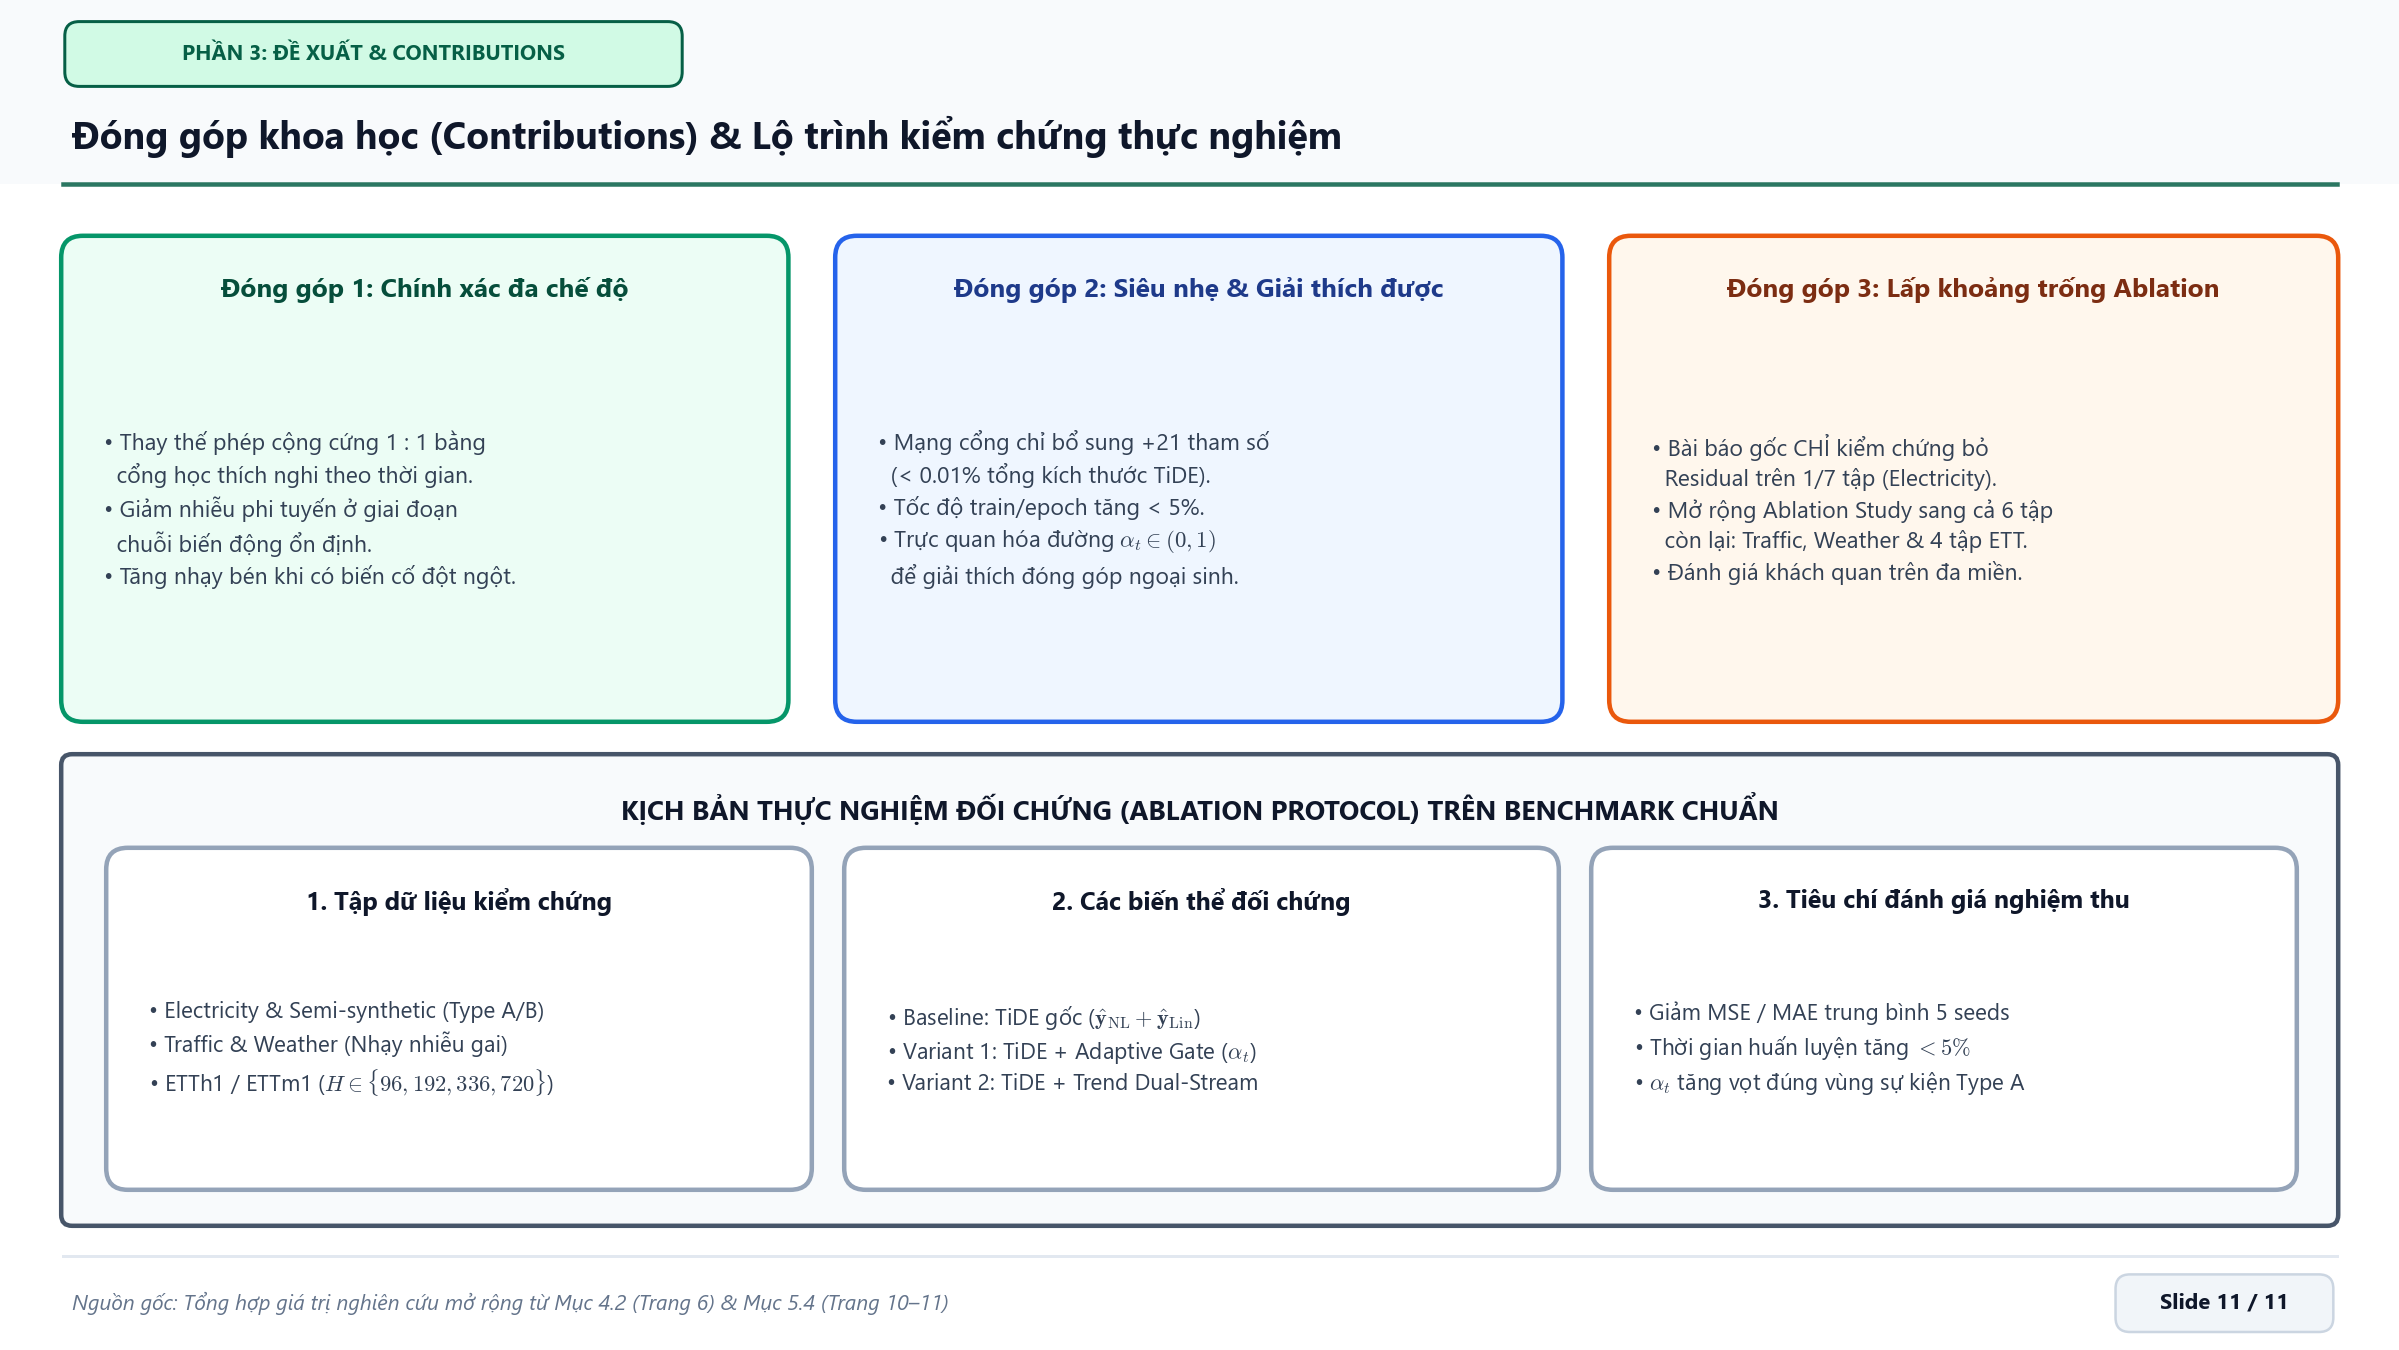
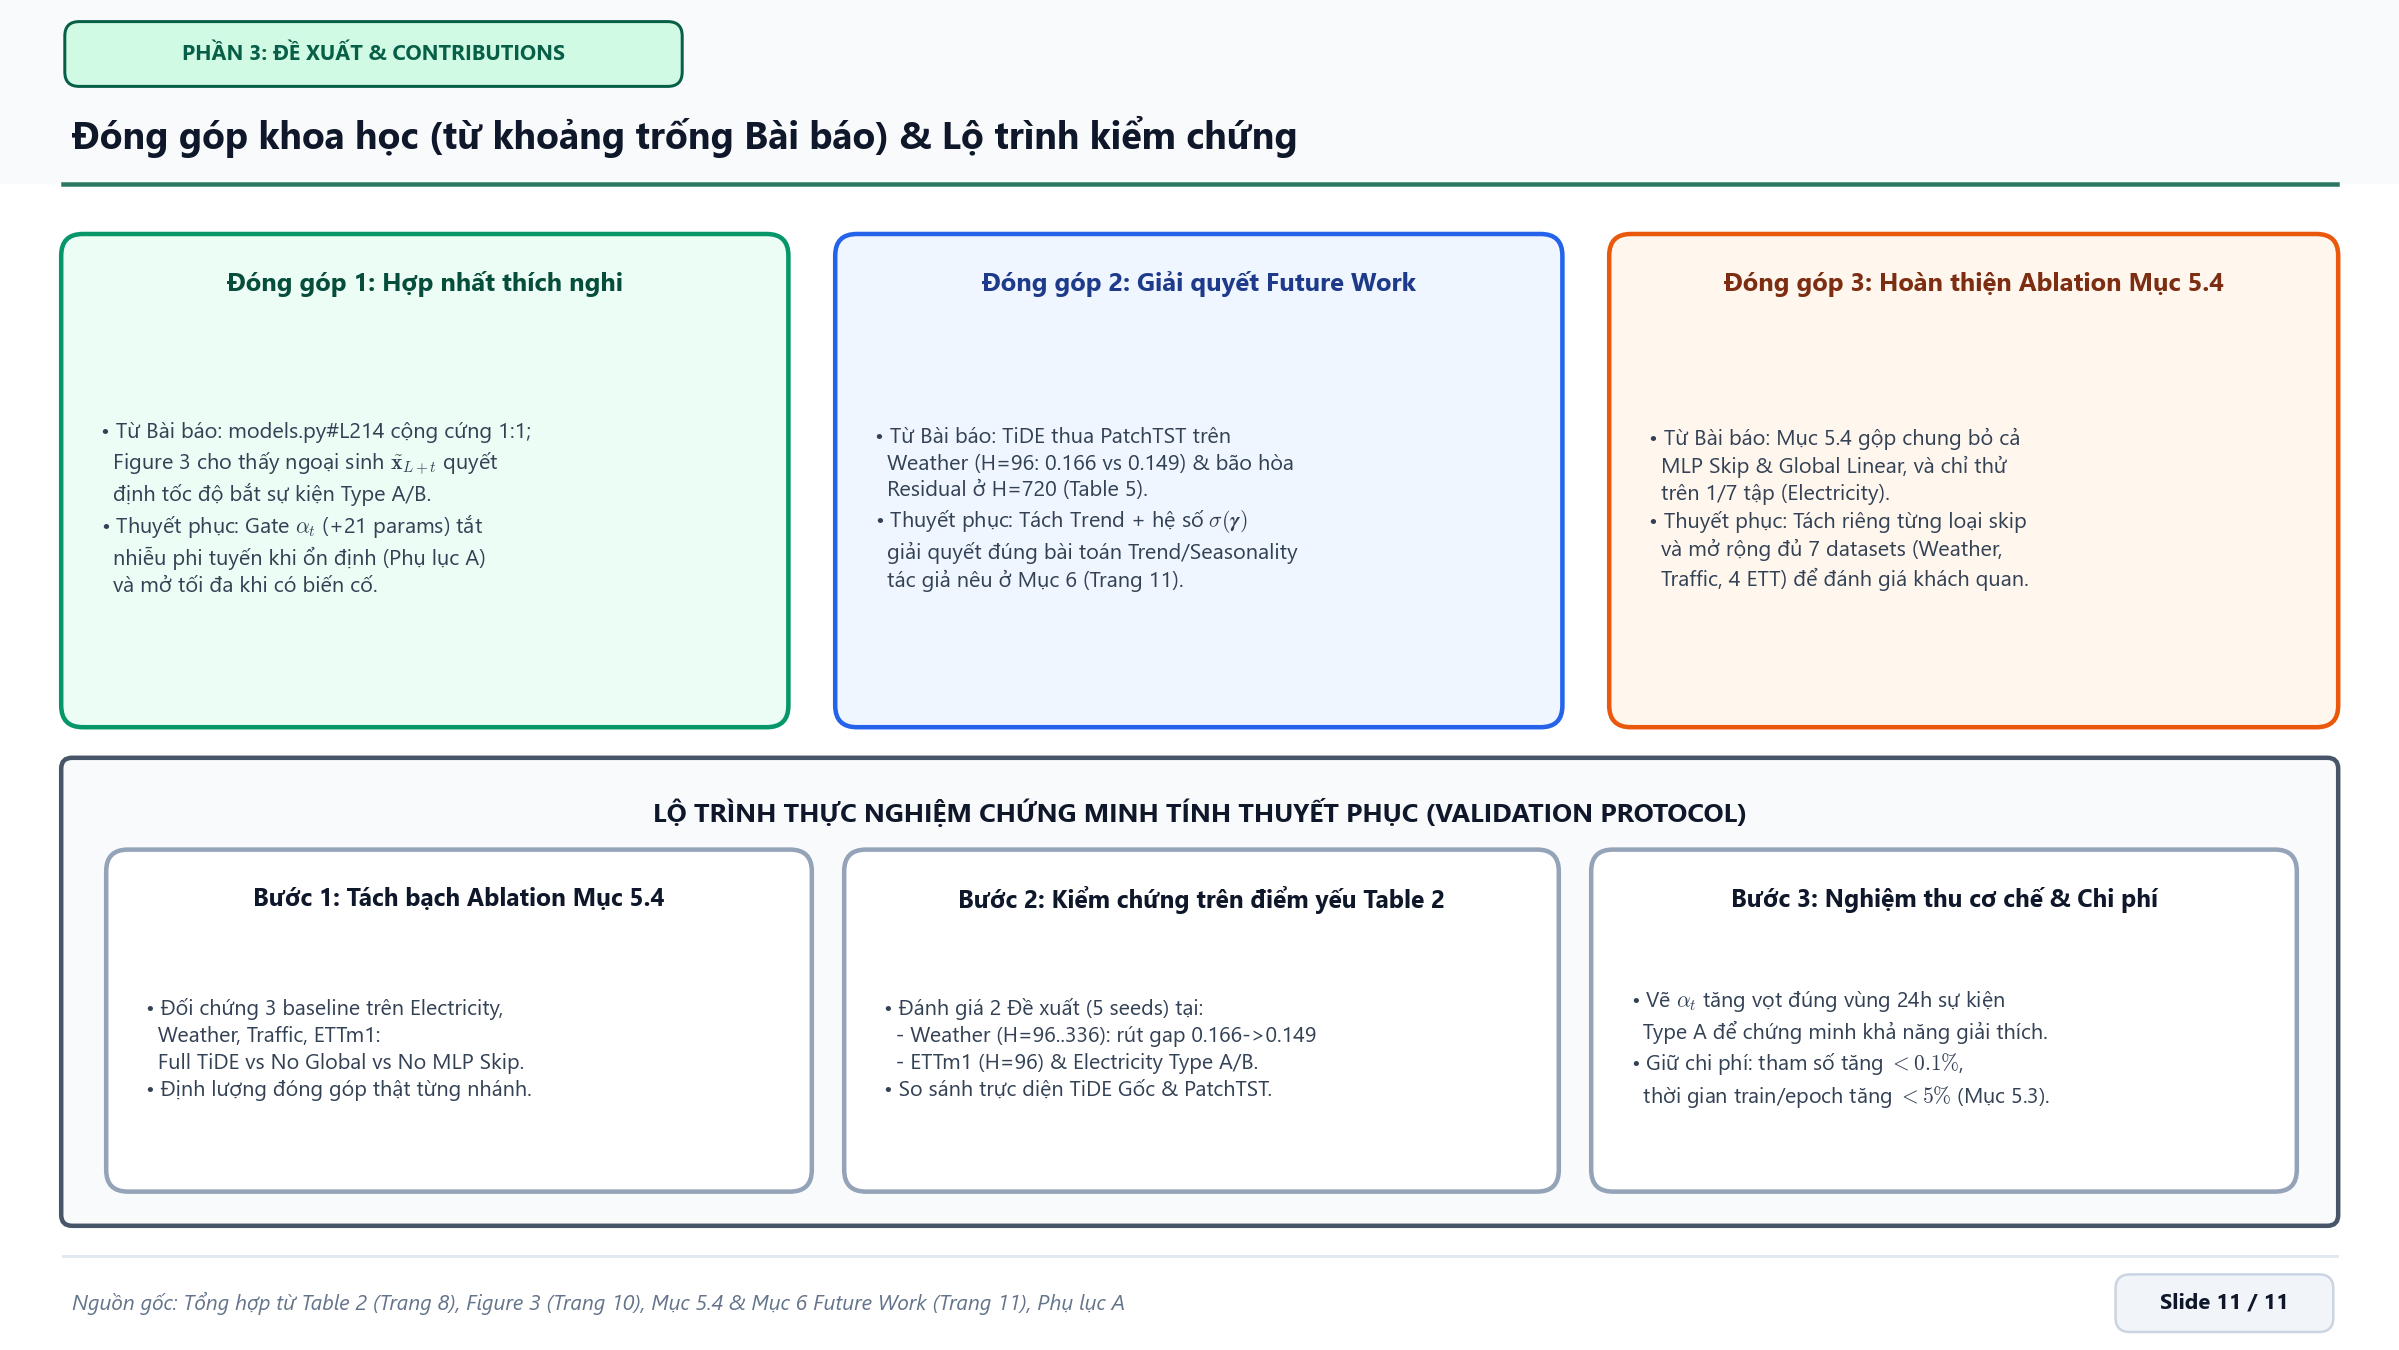
docs(slide): ground Slide 10 and Slide 11 proposals and contributions directly in TiDE paper gaps and empirical evidence

diff --git a/tasks-Hieu/presentation/slide/slide_03_phan_3_de_xuat_cai_tien.md b/tasks-Hieu/presentation/slide/slide_03_phan_3_de_xuat_cai_tien.md
@@ -77,41 +77,48 @@ class AdaptiveGatedTiDEHead(nn.Module):
         return alpha * y_hat_nl + (1.0 - alpha) * y_hat_lin
 ```
 
-### 3. Giả thuyết 2: Tách Xu Hướng Kiểu DLinear Cho Nhánh Tuyến Tính (Trend-Aware Dual-Stream)
+### 3. Giả thuyết 2: Phân rã Xu hướng & Điều tiết Horizon cho Global Residual (Xuất phát từ Bài báo)
 
-Dùng bộ lọc `Moving Average` ($k = 25$) tách chuỗi quá khứ $\mathbf{y}_{1:L}^{(i)}$ thành thành phần mượt $\mathbf{y}_{\mathrm{trend}}^{(i)}$ và phần dư $\mathbf{y}_{\mathrm{rem}}^{(i)}$ trước khi chiếu qua hai lớp Linear độc lập, kết hợp trọng số học được theo horizon $\boldsymbol{\gamma} \in \mathbb{R}^{1 \times H}$:
+**3.1. Cơ sở trực tiếp từ các điểm nghẽn & hướng mở trong Bài báo gốc:**
+* **Điểm yếu thực nghiệm tại Table 2 (Trang 8):** Trên tập `Weather` (tần suất 10 phút, nhiễu cao) ở $H=96$, TiDE đạt MSE `0.166` (thua PatchTST `0.149` tới `10.2%`); trên `ETTm1` ở $H=96$, TiDE (`0.306`) cũng thua cả DLinear (`0.299`) và PatchTST (`0.293`).
+* **Bão hòa ở tầm xa tại Table 5 (Trang 11):** Trên `Electricity` ở $H=720$, sai số của TiDE và `TiDE (no res.)` tiệm cận nhau (`0.196` vs `0.196`), cho thấy trọng số cộng cố định `1:1` suy giảm hiệu lực ở bước xa.
+* **Hướng mở từ chính tác giả (Mục 6 Conclusion & Future Work, Trang 11):** Nhóm tác giả đề xuất cần phân tích sâu hơn hiệu quả của kiến trúc MLP so với Transformer ứng với **từng mức độ xu hướng (*trend*) và chu kỳ (*seasonality*)**; đồng thời tại Mục 4.2, nhánh Global Residual mới chiếu thẳng chuỗi thô $\mathbf{y}_{1:L}^{(i)}$ thay vì tách thành phần mượt như DLinear.
+
+**3.2. Phương trình cải tiến & Cơ sở thuyết phục:**
 
 $$
 \hat{\mathbf{y}}_{\mathrm{final}}^{(i)} = \big(\mathbf{W}_{\mathrm{trend}} \mathbf{y}_{\mathrm{trend}}^{(i)} + \mathbf{W}_{\mathrm{rem}} \mathbf{y}_{\mathrm{rem}}^{(i)} + \mathbf{b}\big) + \sigma(\boldsymbol{\gamma}) \odot \hat{\mathbf{y}}_{\mathrm{NL}}^{(i)}
 $$
 
-### 4. Đóng góp khoa học (Contributions) & Thiết kế kiểm chứng thực nghiệm
+* **Giữ nguyên tối ưu Phụ lục A:** Tách nền mượt $\mathbf{y}_{\mathrm{trend}}^{(i)}$ giúp nhánh Linear phát huy đúng chứng minh tối ưu cho hệ động lực tuyến tính mà không bị gai nhiễu tần số cao (`Weather`, `ETTm1`) kéo lệch.
+* **Xử lý suy giảm ở $H=720$:** Vector học $\sigma(\boldsymbol{\gamma}) \in \mathbb{R}^H$ tự động tiết giảm độ trôi phi tuyến của Temporal Decoder tại các bước tương lai xa.
+* **Bảo toàn $\mathrm{DLinear} \subset \mathrm{TiDE}$ & tốc độ $O(L+H)$:** Chi phí tham số tăng $< 0.1\%$, giữ nguyên tốc độ nhanh hơn Transformer $5\text{–}10\times$ (Mục 5.3).
+
+### 4. Đóng góp khoa học (Xuất phát từ khoảng trống Bài báo) & Lộ trình kiểm chứng
 
 **3 Đóng góp kỳ vọng chính (Contributions):**
 
-1. **Cải thiện độ chính xác trên chuỗi đa chế độ (*Regime-Switching*):** Khắc phục phép cộng cứng `1:1`, giảm nhiễu phi tuyến ở giai đoạn ổn định và khuếch đại nhạy bén khi có biến cố ngoại sinh.
-2. **Siêu nhẹ & Có khả năng giải thích (*Lightweight & Interpretable*):** Mạng cổng chỉ bổ sung **$21$ tham số** (`< 0.01%` mô hình) nhưng cho phép vẽ đồ thị biến thiên $\alpha_t \in (0, 1)$ để giải thích trực quan lúc nào mô hình dựa vào lịch sử tuyến tính, lúc nào dựa vào sự kiện ngoại sinh.
-3. **Lấp khoảng trống Ablation của bài báo gốc:** Mở rộng kiểm chứng sang cả **6 tập dữ liệu còn lại** (`Traffic`, `Weather`, `ETTh1/2`, `ETTm1/2`) thay vì chỉ dừng lại ở `1/7` tập (`Electricity`) như trong Figure 5 của bài báo gốc.
+1. **Hợp nhất thích nghi điều khiển từ ngoại sinh:** Khắc phục phép cộng cứng `1:1` (`models.py#L214`) bằng cổng $\alpha_t$ (`+21 params`). Tận dụng đúng tín hiệu ngoại sinh quyết định tốc độ bắt sự kiện Type A/B (**Figure 3, Trang 10**) và tối ưu hóa chế độ ổn định tuyến tính (**Phụ lục A**).
+2. **Giải quyết trực tiếp bài toán Future Work tại Mục 6 (Trang 11):** Nâng cấp Global Residual bằng phân rã Trend/Remainder + trọng số $\sigma(\boldsymbol{\gamma})$ theo horizon để xử lý trực diện các benchmark TiDE thua PatchTST/DLinear (**Table 2 Trang 8**: `Weather`, `ETTm1`) và vùng bão hòa $H=720$ (**Table 5**).
+3. **Hoàn thiện mảnh ghép Ablation Study còn thiếu tại Mục 5.4 (Trang 11):** Tác giả gộp chung bỏ cả `MLP ResidualBlock Skip` lẫn `Global Linear Residual` trong biến thể `TiDE (no res.)` và chỉ thử trên `1/7` tập (`Electricity`). Ta **tách riêng 2 thành phần skip** và mở rộng đánh giá sang đủ **7 datasets** (`Weather`, `Traffic`, `4 ETT`, `Electricity`).
 
-| Hạng mục | Thiết lập kiểm chứng đề xuất |
-| :--- | :--- |
-| **Datasets** | `Electricity`, `Semi-synthetic Electricity (Type A/B events)` & `ETTh1 / Traffic` (`H = 96, 192, 336, 720`). |
-| **Mô hình đối chứng** | (1) TiDE Gốc (`y_nl + y_lin`) vs (2) TiDE + `AdaptiveGatedTiDEHead` vs (3) TiDE + `Trend-Aware Dual-Stream`. |
-| **Chỉ số đo lường** | So sánh **MSE / MAE** (trung bình 5 seed), thời gian train/epoch (`< 5%` sai khác) và **trực quan hóa giá trị cổng $\alpha_t$** trong suốt chu kỳ sự kiện Type A. |
+| Bước kiểm chứng | Mục tiêu xuất phát từ Bài báo | Tiêu chí thuyết phục & Nghiệm thu |
+| :--- | :--- | :--- |
+| **Bước 1: Tách bạch Ablation Mục 5.4** | Mục 5.4 Trang 11 chưa tách `Global Linear` khỏi `MLP Skip` và thiếu `6/7` tập. | Đối chứng 3 baseline (`Full TiDE` vs `No Global Linear` vs `No MLP Skip`) trên `Electricity`, `Weather`, `Traffic`, `ETTm1`. |
+| **Bước 2: Kiểm chứng trên điểm yếu Table 2** | TiDE thua PatchTST/DLinear ở `Weather H=96..336` & `ETTm1 H=96`. | So sánh **MSE / MAE** (5 seeds) của 2 Đề xuất vs TiDE Gốc & PatchTST; kỳ vọng rút ngắn khoảng cách `0.166 -> ~0.149` trên `Weather`. |
+| **Bước 3: Nghiệm thu cơ chế & Chi phí (Mục 5.3)** | Giải thích $\alpha_t$ trên sự kiện `Type A/B` (Figure 3) và giữ tốc độ TiDE. | Đồ thị $\alpha_t$ tăng vọt đúng vùng sự kiện `24h`; tham số tăng $< 0.1\%$ và thời gian train/epoch tăng $< 5\%$. |
 
 ---
 
 ## 🎙 Kịch Bản Lời Nói Thuyết Trình (Speaker Notes)
 
-> "Cuối cùng ở Phần 3, để trả lời trực tiếp câu hỏi mở của đề tài: **Có thể cải tiến cơ chế kết hợp giữa nhánh phi tuyến và nhánh tuyến tính để nâng cao độ chính xác không?** Câu trả lời chắc chắn là **CÓ**.
+> "Cuối cùng ở Phần 3, toàn bộ đề xuất cải tiến của em **đều xuất phát trực tiếp từ những điểm nghẽn và gợi mở được chính nhóm tác giả Google Research ghi nhận trong bài báo**:
 >
-> Như đã phân tích ở Phần 2, dòng code `out += residual_out` hiện tại ép cả hai nhánh cộng với tỷ lệ cứng 1:1 ở mọi thời điểm. Em xin đề xuất 2 giả thuyết cải tiến có thể kiểm chứng ngay bằng thực nghiệm:
+> 1. **Đề xuất 1 — Adaptive Gated Fusion (Slide 09):** Xuất phát từ dòng code 214 `out += residual_out` cộng cứng `1:1`. Kết hợp chứng minh từ Phụ lục A (mô hình tuyến tính đã tối ưu khi chuỗi vận động tuyến tính) và Figure 3 (biến ngoại sinh quyết định sự kiện Type A/B), ta chỉ cần thêm 1 cổng Sigmoid `alpha_t` tốn đúng **21 tham số** để tự động hạ nhiễu phi tuyến lúc yên tĩnh và mở hết cỡ khi có sự kiện đột biến.
 >
-> 1. **Adaptive Gated Fusion (Cổng hợp nhất thích nghi theo thời gian):** Ta thêm một tầng Linear nhỏ kết hợp hàm Sigmoid để sinh ra trọng số $\alpha_t \in (0, 1)$ cho từng mốc tương lai dựa trên chính $[\mathbf{d}_t ; \tilde{\mathbf{x}}_{L+t}]$. Khi chuỗi đang biến động bình thường, $\alpha_t$ hạ xuống để ưu tiên nhánh tuyến tính chống nhiễu; còn khi phát hiện sự kiện đột biến như Type A hoặc ngày lễ, cổng tự động mở $\alpha_t \to 1$ để ưu tiên Temporal Decoder. Đặc biệt, mạng cổng này chỉ tốn thêm đúng **21 tham số**, tốc độ tính toán gần như không đổi.
+> 2. **Đề xuất 2 — Phân rã Xu hướng & Điều tiết Horizon (Slide 10):** Xuất phát từ **Table 2 (Trang 8)** khi TiDE vẫn thua PatchTST `10.2%` trên tập `Weather` (`H=96`, nhiều nhiễu 10 phút) và thua DLinear ở `ETTm1`; đồng thời ở **Table 5 (Trang 11)** khi `H=720`, Global Residual gốc bị bão hòa (`0.196` vs `0.196`). Trong **Mục 6 Future Work**, chính tác giả cũng gợi mở phải xét ảnh hưởng của *trend* và *seasonality*. Tách chuỗi quá khứ qua `MovingAvg` như tinh thần DLinear giúp nhánh tuyến tính giữ được tính tối ưu ở Phụ lục A, còn hệ số học `sigma(gamma)` giúp hãm độ trôi phi tuyến ở tầm dự báo xa.
 >
-> 2. **Trend-Aware Dual-Stream:** Tách $\mathbf{y}_{1:L}$ thành Trend và Seasonal bằng Moving Average đúng theo tinh thần DLinear trước khi đưa vào `Global Linear Skip`, tránh để nhiễu gai làm lệch đường nền tuyến tính.
->
-> Bên dưới là thiết kế thí nghiệm đối chứng (Ablation Study) kèm đồ thị theo dõi giá trị $\alpha_t$ mà nhóm hoàn toàn có thể chạy kiểm chứng ngay trên bộ dữ liệu thực tế. Cảm ơn thầy cô và các bạn đã lắng nghe!"
+> 3. **Đóng góp & Lộ trình kiểm chứng (Slide 11):** Bên cạnh hai kiến trúc nâng cấp, ta còn hoàn thiện lỗ hổng ở **Mục 5.4 (Trang 11)** — tách bạch riêng `Global Linear Skip` khỏi `MLP Skip` và chạy đủ **7 datasets** thay vì chỉ `1/7` tập như bài báo gốc!"
 
 ---
 

diff --git a/tasks-Hieu/presentation/slide/slide_images_gallery.md b/tasks-Hieu/presentation/slide/slide_images_gallery.md
@@ -76,14 +76,14 @@
 
 ---
 
-### Slide 10 / 11 (3.2) — Đề xuất 2: Tách Xu Hướng Kiểu DLinear Cho Nhánh Tuyến Tính (*Trend-Aware Dual-Stream*)
-* **Nguồn gốc:** Kết hợp bộ lọc `MovingAvg(k=25)` kiểu DLinear để bảo vệ nhánh `self.linear` ([`models.py#L203`](https://github.com/google-research/google-research/blob/master/tide/models.py#L203)) khỏi nhiễu gai *outliers*.
+### Slide 10 / 11 (3.2) — Đề xuất 2: Phân rã Xu hướng & Điều tiết Horizon (Xuất phát từ Table 2, Table 5 & Mục 6 Future Work)
+* **Nguồn gốc:** Xuất phát từ các điểm yếu thực nghiệm tại **Table 2 (Trang 8: Weather `0.166` vs PatchTST `0.149`, ETTm1 `0.306`)**, hiện tượng bão hòa ở $H=720$ tại **Table 5 (Trang 11)** và định hướng Trend/Seasonality tại **Mục 6 (Trang 11)**, kết hợp chứng minh tối ưu tuyến tính (**Phụ lục A**).
 
 ![Slide 10: Đề xuất 2 Trend Aware Dual Stream](./images/slide_10_de_xuat_2_trend_aware.png)
 
 ---
 
-### Slide 11 / 11 (3.3) — Đóng góp khoa học (Contributions) & Lộ trình kiểm chứng thực nghiệm
-* **Nguồn gốc:** Tổng hợp 3 đóng góp khoa học kỳ vọng (Chính xác đa chế độ • Siêu nhẹ +21 params & Giải thích được • Lấp khoảng trống 6/7 dataset chưa chạy Ablation) kèm kịch bản Ablation Protocol.
+### Slide 11 / 11 (3.3) — Đóng góp khoa học (Xuất phát từ khoảng trống Bài báo) & Lộ trình kiểm chứng
+* **Nguồn gốc:** Khắc phục cộng cứng `1:1` (`models.py#L214`), giải quyết Future Work Mục 6 (`Weather`/`ETTm1`/`H=720`), tách bạch `Global Linear` vs `MLP Skip` trên đủ 7 datasets (**Mục 5.4, Trang 11**) kèm lộ trình kiểm chứng thuyết phục.
 
 ![Slide 11: Đóng góp khoa học và lộ trình thực nghiệm](./images/slide_11_contributions_va_roadmap.png)
